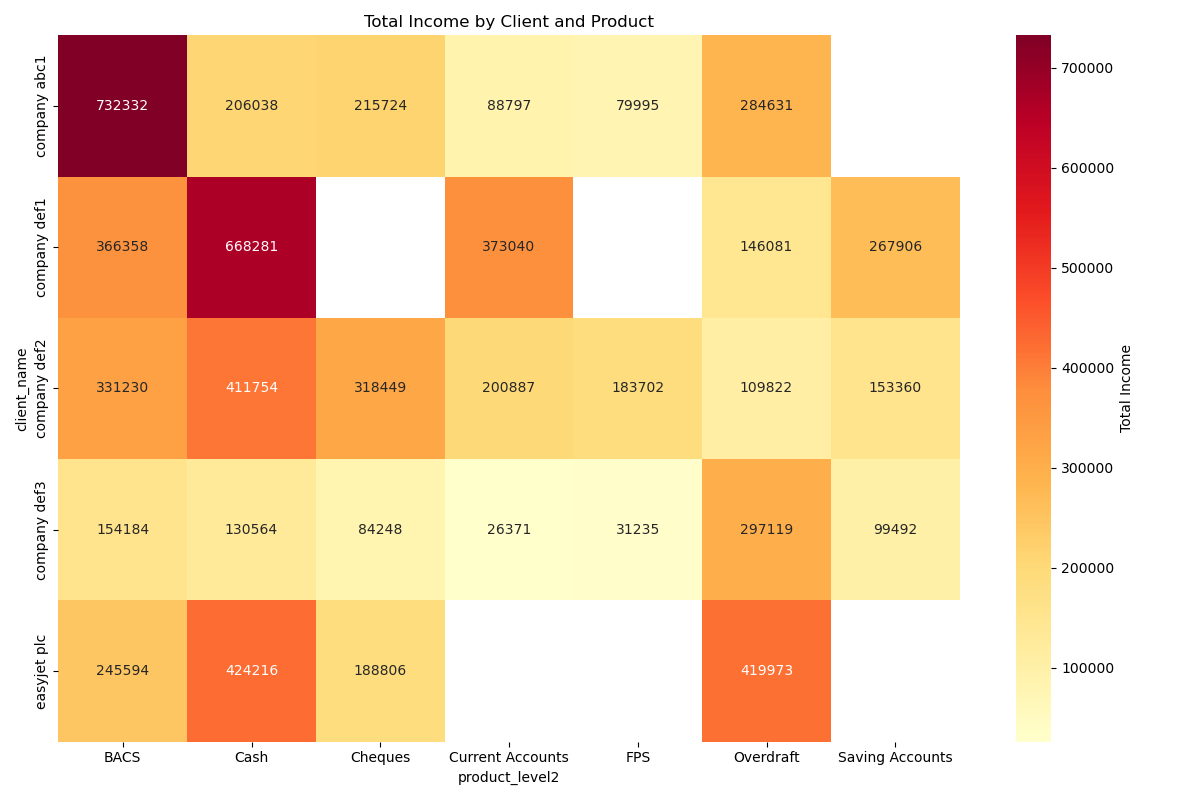
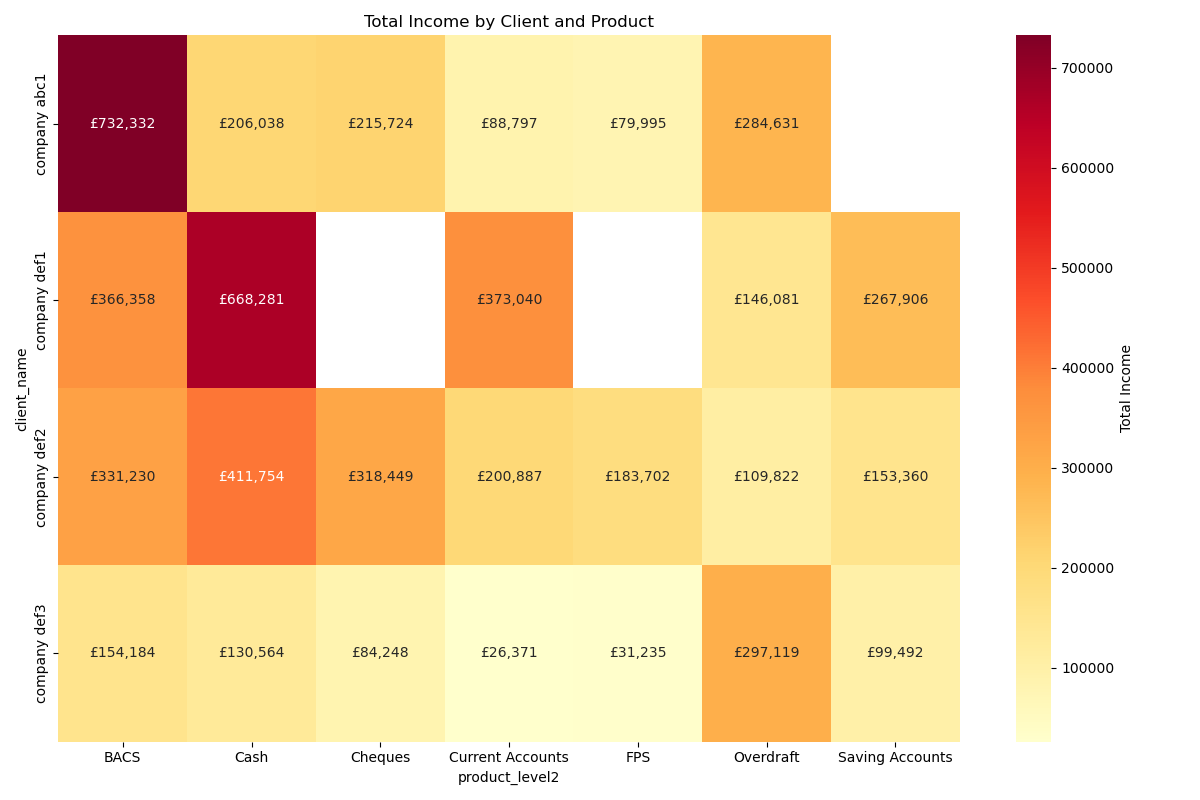
test

diff --git a/sql_text.py b/sql_text.py
@@ -59,12 +59,11 @@ This query complies with Athena syntax and follows the important notes you provi
 1. Client-specific trends:
    - Company abc1 shows the highest income for BACS products, with an average of 61,027 per month. This is significantly higher than other clients for the same product.
    - Company def1 has the highest income for Cash products, averaging 55,690 per month.
-   - Easyjet plc shows consistently high income across multiple products, particularly in Cash and Overdraft categories.
 
 2. Product-specific trends:
    - BACS and Cash products generally show higher monthly incomes across most clients.
    - Current Accounts and FPS products tend to have lower monthly incomes for all clients.
-   - Overdraft products show high variability between clients, with company abc1 and easyjet plc having much higher averages than others.
+   - Overdraft products show high variability between clients, with company abc1 having much higher averages than others.
 
 3. Variability in income:
    - Company def3's Overdraft product shows the highest variability (standard deviation of 1008.77), indicating significant fluctuations in monthly income.
@@ -76,7 +75,6 @@ This query complies with Athena syntax and follows the important notes you provi
 
 5. Client portfolio differences:
    - Different clients seem to have varying strengths in different products. For instance, while company abc1 excels in BACS, company def1 shows strength in Cash products.
-   - Easyjet plc appears to have a more balanced portfolio with relatively high incomes across multiple products.
 
 6. Product importance:
    - BACS, Cash, and Overdraft products seem to be the most significant income generators across clients.
@@ -84,30 +82,28 @@ This query complies with Athena syntax and follows the important notes you provi
 
 To gain more detailed insights into specific trends over time, month-to-month changes, or to identify any clear upward or downward trends, we would need to visualize the time series data or perform more advanced time series analysis.
     """
-            , "plot a heatmap of the total income by client and product": 'total_income_heatmap_archived.png'
+            , "Plot a heatmap of the total income by client and product": 'total_income_heatmap_archived.png'
             , 'Generate me some insights into the income by product and client': """Based on this data, I can provide several insights into the income by product and client:
 
 1. Top Earning Clients and Products:
    - Company abc1's BACS product is the highest income generator overall, with £732,332.
    - Company def1's Cash product is the second-highest, earning £668,281.
-   - EasyJet plc's top products are Cash and Overdraft, both earning over £400,000.
 
 2. Client-specific insights:
    - Company abc1: Relies heavily on BACS, which generates significantly more income than its other products.
    - Company def1: Has a more balanced product mix, with Cash, Current Accounts, and BACS all generating substantial income.
    - Company def2: Also has a relatively balanced mix, with Cash, BACS, and Cheques as top earners.
    - Company def3: Overdraft is by far their biggest income generator, followed by BACS and Cash.
-   - EasyJet plc: Has four main products (Cash, Overdraft, BACS, and Cheques) all generating significant income.
 
 3. Product-specific insights:
    - BACS is a strong performer across multiple clients, appearing in the top 3 for several companies.
    - Cash is also a consistently high earner across different clients.
-   - Overdraft services generate significant income for some clients (especially EasyJet and company def3) but not for others.
+   - Overdraft services generate significant income for some clients (especially company def3) but not for others.
    - FPS (Faster Payments Service) is only a significant income source for company def2.
 
 4. Diversity of income sources:
    - Some clients like company abc1 and company def3 have a more concentrated income source (BACS and Overdraft respectively).
-   - Others like company def1, company def2, and EasyJet plc have more diversified income across multiple products.
+   - Others like company def1 and company def2 have more diversified income across multiple products.
 
 5. Potential areas for growth:
    - Clients with lower income from certain products might have room for growth. For example, company abc1 could potentially increase its income from Current Accounts or FPS.
@@ -236,24 +232,22 @@ This query complies with Athena syntax and follows the important notes you provi
 1. Top Earning Clients and Products:
    - Company abc1's BACS product is the highest income generator overall, with £732,332.
    - Company def1's Cash product is the second-highest, earning £668,281.
-   - EasyJet plc's top products are Cash and Overdraft, both earning over £400,000.
 
 2. Client-specific insights:
    - Company abc1: Relies heavily on BACS, which generates significantly more income than its other products.
    - Company def1: Has a more balanced product mix, with Cash, Current Accounts, and BACS all generating substantial income.
    - Company def2: Also has a relatively balanced mix, with Cash, BACS, and Cheques as top earners.
    - Company def3: Overdraft is by far their biggest income generator, followed by BACS and Cash.
-   - EasyJet plc: Has four main products (Cash, Overdraft, BACS, and Cheques) all generating significant income.
 
 3. Product-specific insights:
    - BACS is a strong performer across multiple clients, appearing in the top 3 for several companies.
    - Cash is also a consistently high earner across different clients.
-   - Overdraft services generate significant income for some clients (especially EasyJet and company def3) but not for others.
+   - Overdraft services generate significant income for some clients (especially company def3) but not for others.
    - FPS (Faster Payments Service) is only a significant income source for company def2.
 
 4. Diversity of income sources:
    - Some clients like company abc1 and company def3 have a more concentrated income source (BACS and Overdraft respectively).
-   - Others like company def1, company def2, and EasyJet plc have more diversified income across multiple products.
+   - Others like company def1 and company def2 have more diversified income across multiple products.
 
 5. Potential areas for growth:
    - Clients with lower income from certain products might have room for growth. For example, company abc1 could potentially increase its income from Current Accounts or FPS.
